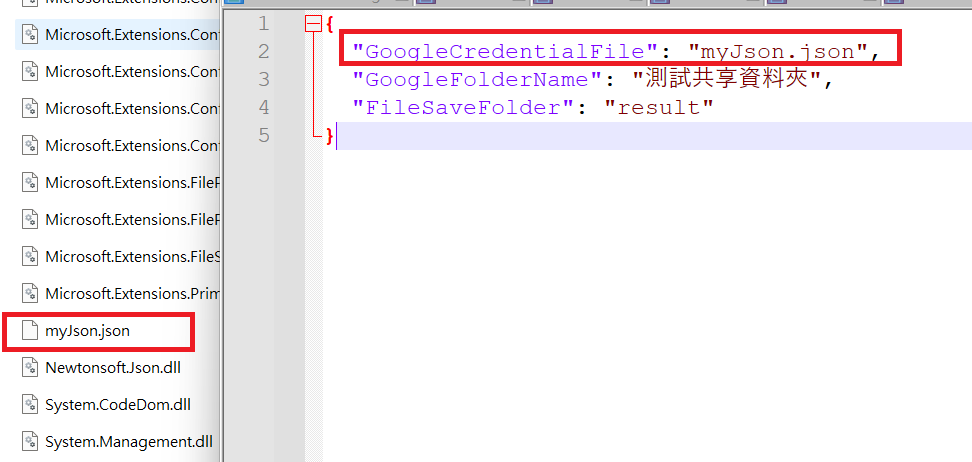
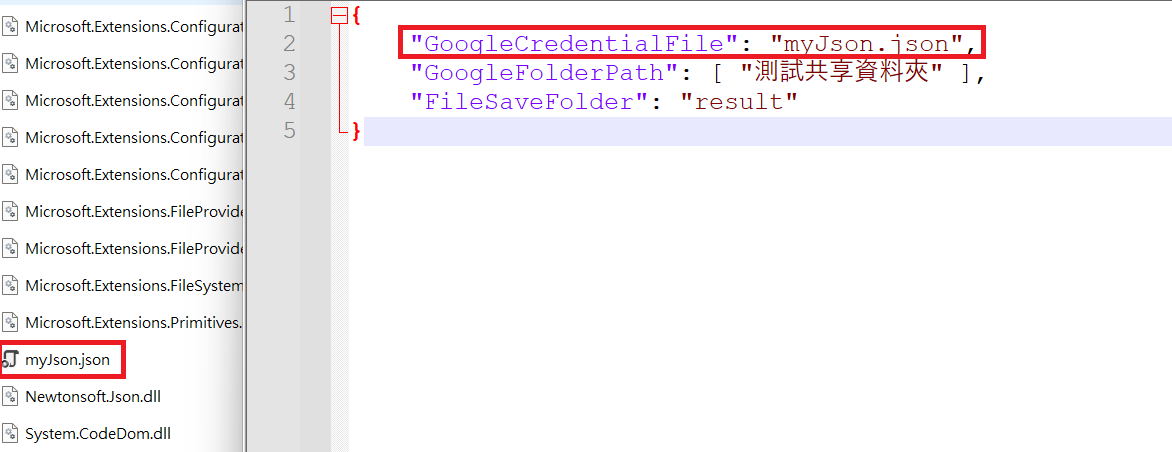
Update README.md

Changed region(s): [[0.0, 0.0, 1.0, 1.0]]

diff --git a/README.md b/README.md
@@ -37,3 +37,9 @@
 
 ## 10. 金鑰 JSON 檔案放到本機執行路徑
 ![](images/10.png)
+
+## 11. 路徑設定
+- 如果下載 GoogleDrive 路徑為 `測試共享資料夾/aaa/bbb` 資料夾的檔案，設定為：
+```json
+"GoogleFolderPath": [ "測試共享資料夾", "aaa", "bbb" ]
+```
